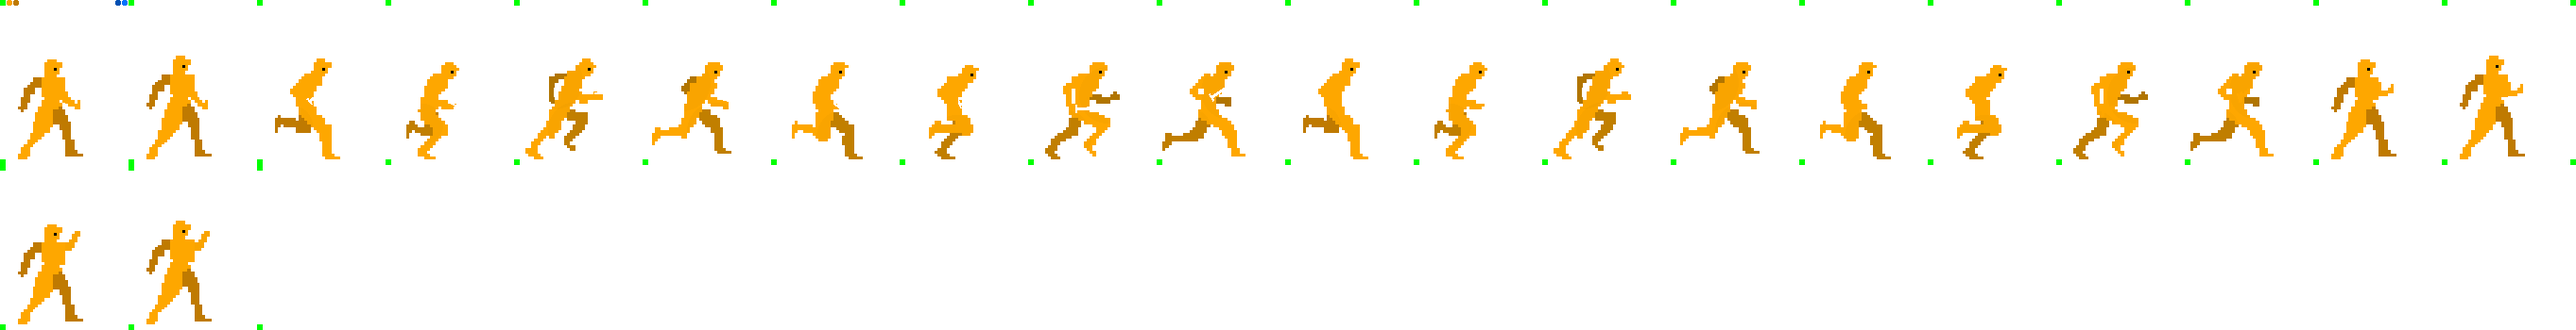
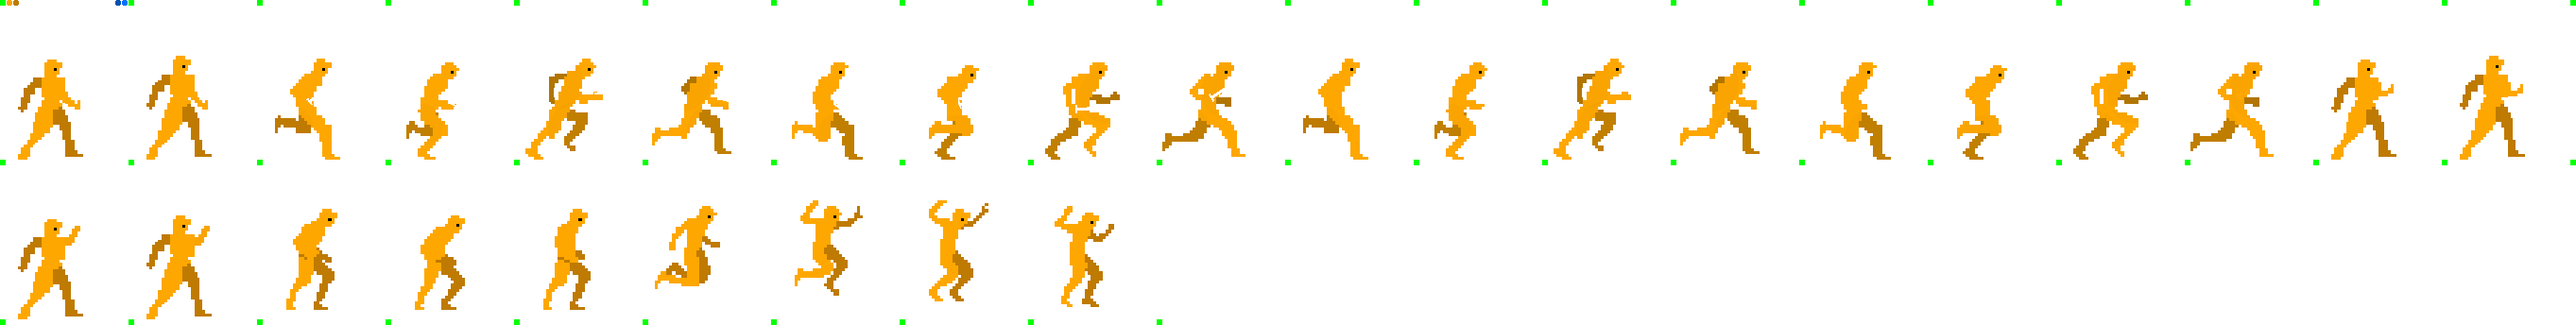
Анимация прыжка

diff --git a/js/player.js b/js/player.js
@@ -29,7 +29,10 @@ class Player
 		run_with_weapon: this.body.sprite.animations.add("run_with_weapon",
 					 [2,3,4,5,6,7,8,9], this.animation_velocity, true),
 		run_no_weapon: this.body.sprite.animations.add("run_no_weapon", 
-				[10, 11, 12, 13, 14, 15, 16, 17], this.animation_velocity, true)
+				[10, 11, 12, 13, 14, 15, 16, 17], this.animation_velocity, true),
+		jump: this.body.sprite.animations.add("jump", 
+				[22, 23, 24, 25, 26, 27, 28], this.animation_velocity, false)
+
 		};
 
 
@@ -60,7 +63,7 @@ class Player
 			if(this.flags.on_ground && game.time.now > this.times.jump) {
 				this.body.sprite.body.velocity.y = this.velocities.jump;
 				this.times.jump = game.time.now + 1000;
-				//this.setAnimation("jump");
+				this.setAnimation("jump");
 			}
 		}
 	}
@@ -83,6 +86,7 @@ class Player
 	if (!this.flags.is_dead) {
 		this.dirrection = -1;
 		this.body.sprite.body.velocity.x = -this.velocities.horizontal_velocity;
+		if(this.flags.on_ground)
 		if (this.weapon == null)	
 			this.setAnimation("run_no_weapon");
 		else 
@@ -95,6 +99,8 @@ class Player
 	if (!this.flags.is_dead) {
 		this.dirrection = 1;
 		this.body.sprite.body.velocity.x = this.velocities.horizontal_velocity;
+		if(this.flags.on_ground)
+
 		if (this.weapon == null)	
 			this.setAnimation("run_no_weapon");
 		else 
@@ -207,7 +213,10 @@ class Player
 		this.debug();
 
 	if (this.body.sprite.body.velocity.x == 0)
-		this.setAnimation("stay"+ this.weapon_position);
+		if(this.flags.on_ground)
+			this.setAnimation("stay"+ this.weapon_position);
+		else
+			this.setAnimation("jump");
 
 	
 	this.body.sprite.scale.setTo(this.dirrection, 1);

diff --git a/js/gameManager.js b/js/gameManager.js
@@ -192,8 +192,12 @@ class GameManager
 
 		if (control.left.isDown) {
 			this.player[index].left();
+			if(!this.player[index].flags.on_ground)
+				this.player[index].setAnimation("jump");
 		} else if (control.right.isDown) {
 			this.player[index].right(); 
+			if(!this.player[index].flags.on_ground)
+				this.player[index].setAnimation("jump");
 		}
 
 		// Подбор оружия
@@ -219,10 +223,10 @@ class GameManager
 			if (this.player[index].weapon != null)
 				this.player[index].attackThrow();
 		// Поднятие/Опускание шпаги
-		if (control.up.isDown)
+		if (control.up.isDown && this.player[index].flags.on_ground)
 			this.player[index].upDownArm(-1);
 		else
-			if (control.down.isDown)
+			if (control.down.isDown && !this.player[index].flags.on_ground)
 				this.player[index].upDownArm(1);
 
         this.player[index].update();	

diff --git a/js/main.js b/js/main.js
@@ -29,10 +29,10 @@ function preload()
 */
 
 	game.load.spritesheet("player1",
-		"assets/pr00.png", 130, 163, 22, 6, 6);//player
+		"assets/pr00.png", 130, 163, 29, 6, 6);//player
 
 	game.load.spritesheet("player2",
-		"assets/pr01.png", 130, 163, 22, 6, 6);//player
+		"assets/pr01.png", 130, 163, 29, 6, 6);//player
 
     game.load.image("tex1", "assets/tex1.png", true);
     game.load.image("tex2", "assets/tex2.png", true);

diff --git a/js/weapon.js b/js/weapon.js
@@ -8,7 +8,7 @@ class Weapon
 		
         this.positions = { };
         this.positions["p-1"] = -20;
-        this.positions["p0"] = 10;
+        this.positions["p0"] = 4;
         this.positions["p1"] = 22;
         this.positions["p2"] = 40;
 
